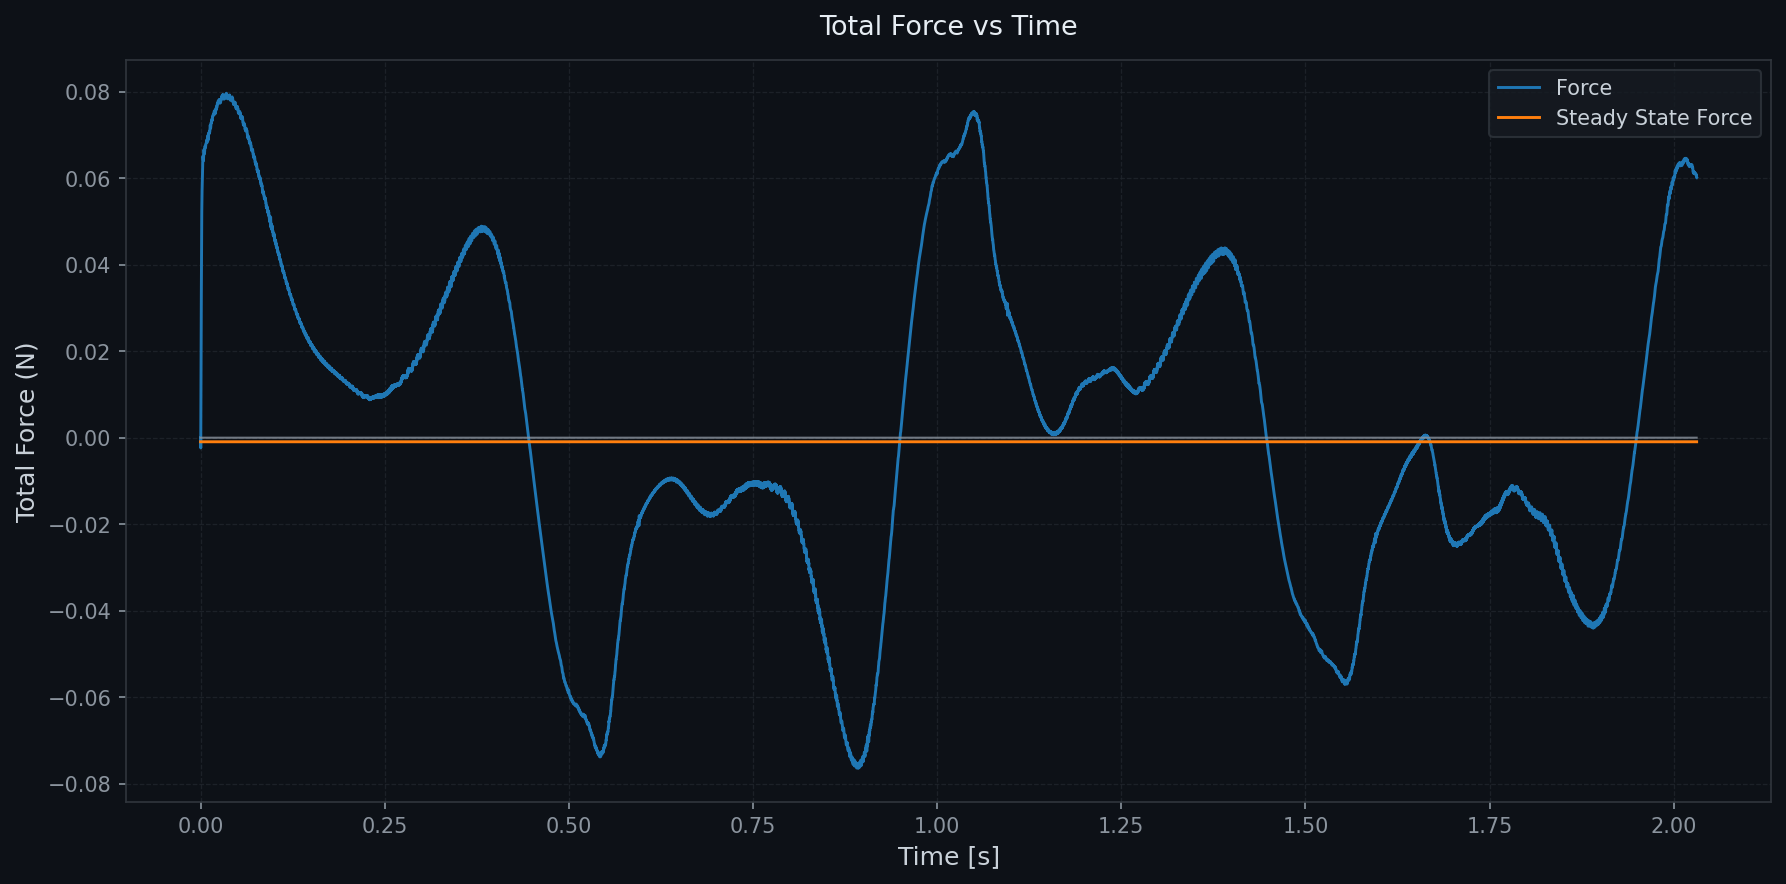
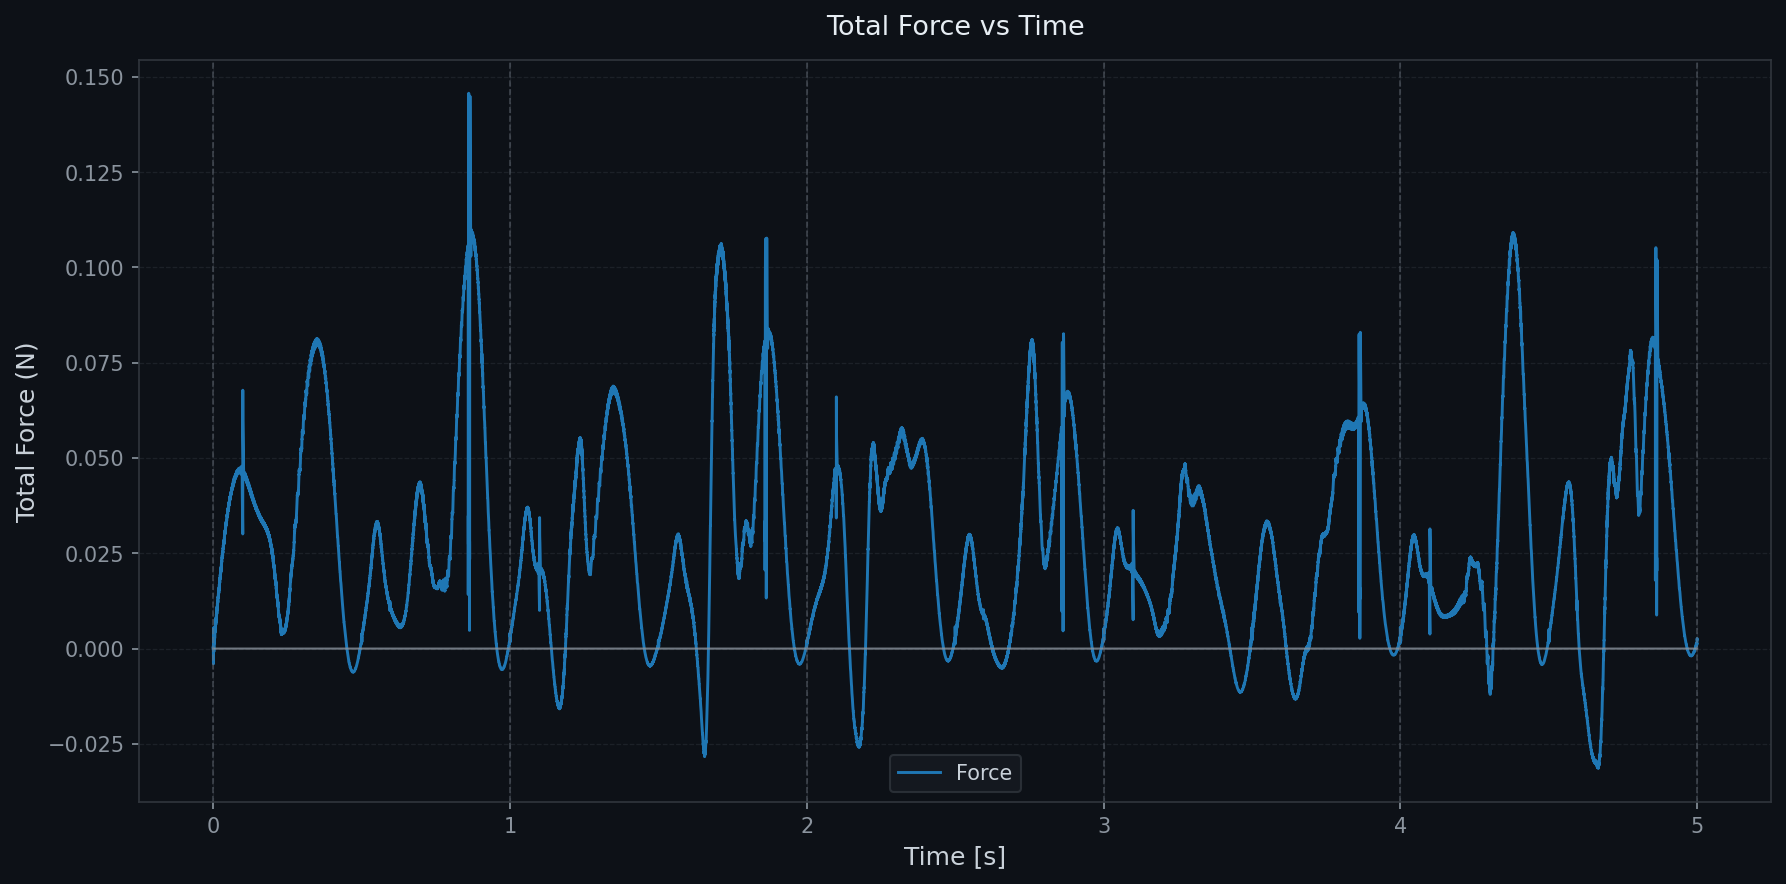
Flapping wing results

diff --git a/flapping_plate/plot_forces.py b/flapping_plate/plot_forces.py
@@ -3,9 +3,10 @@ import matplotlib.pyplot as plt
 from scipy.signal import savgol_filter
 
 rho = 1.0 # fluid density (kg/m^3)
-U_inf = 0.01 # free stream velocity (m/s)
 D = 0.1 # characteristic length (m)
 dz = 1 # grid spacing in z direction (m)
+T = 1 # Time period of flapping (s)
+U_inf = 2*np.pi*0.1/T # free stream velocity (m/s)
 
 time = []
 force_raw = []
@@ -18,16 +19,16 @@ with open("cloud.out", "r") as f:
         line = line.strip()
         parts = line.split()
         time.append(float(parts[0]))
-        force_raw.append(-float(parts[5])) # Negate to get the force in the correct direction
+        force_raw.append(float(parts[6])) # Negate to get the force in the correct direction
 
 time = np.array(time)
 force = np.array(force_raw)
 total_duration = time[-1]
 
-steady_state_force = np.mean(force[time > 0.9 * total_duration])
+# steady_state_force = np.mean(force[time > 0.9 * total_duration])
 
-print(f"Steady State force = {steady_state_force:.6e}")
-print(f"Coefficient of drag = {steady_state_force / (0.5 * rho * (U_inf**2) * D * dz):.6e}")
+# print(f"Steady State force = {steady_state_force:.6e}")
+# print(f"Coefficient of drag = {steady_state_force / (0.5 * rho * (U_inf**2) * D * dz):.6e}")
 
 fig, ax = plt.subplots(figsize=(12, 6))
 fig.patch.set_facecolor('#0d1117')
@@ -35,8 +36,12 @@ ax.set_facecolor('#0d1117')
 
 ax.plot(time, force, label="Force", color=plt.cm.tab10.colors[0], linewidth=1.4)
 ax.plot(time, np.zeros(len(time)), color='#8b949e', linewidth=1.0, alpha=0.8)
-ax.plot(time, np.ones(len(time)) * steady_state_force,
-        label="Steady State Force", color=plt.cm.tab10.colors[1], linewidth=1.4)
+# ax.plot(time, np.ones(len(time)) * steady_state_force,
+#         label="Steady State Force", color=plt.cm.tab10.colors[1], linewidth=1.4)
+
+vertical_lines = np.arange(0.0, total_duration + T, T)
+for line_time in vertical_lines:
+    ax.axvline(line_time, color='#6e7681', linestyle='--', linewidth=0.8, alpha=0.5)
 
 # ax.set_ylim(0, 5e-05)
 ax.set_xlabel('Time [s]', color='#c9d1d9', fontsize=12)
